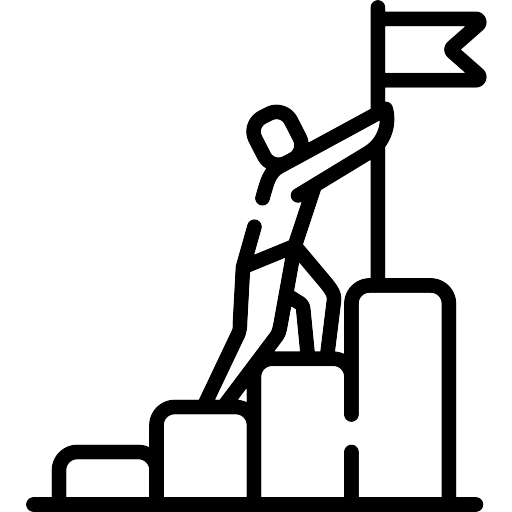
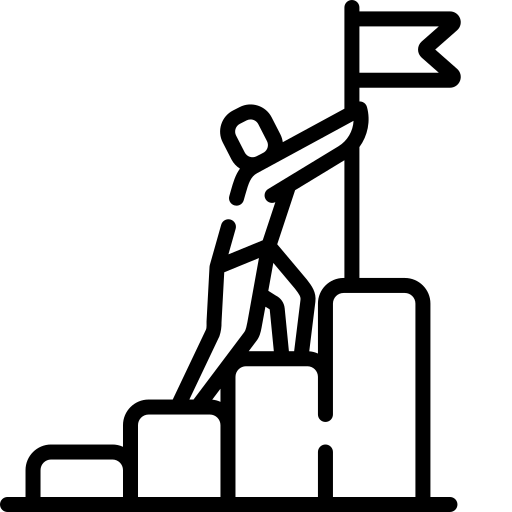
pngs centered

diff --git a/index.html b/index.html
@@ -19,7 +19,7 @@
                     <p>Lorem ipsum dolor sit amet, consectetur adipiscing elit, sed do 
                         eiusmod tempor incididunt ut labore et dolore magna aliqua. 
                     </p>
-                    <a href="https://www.mindler.com/"> Read More </a>
+                    <a href="https://www.mindler.com/"> Learn More </a>
                 </div>
             </div>
         </div>
@@ -36,7 +36,7 @@
                     <p>Lorem ipsum dolor sit amet, consectetur adipiscing elit, sed do 
                         eiusmod tempor incididunt ut labore et dolore magna aliqua. 
                     </p>
-                    <a href="https://www.mindler.com/"> Read More </a>
+                    <a href="https://www.mindler.com/"> Learn More </a>
                 </div>
             </div>
         </div>
@@ -53,7 +53,7 @@
                     <p>Lorem ipsum dolor sit amet, consectetur adipiscing elit, sed do 
                         eiusmod tempor incididunt ut labore et dolore magna aliqua. 
                     </p>
-                    <a href="https://www.mindler.com/"> Read More </a>
+                    <a href="https://www.mindler.com/"> Learn More </a>
                 </div>
             </div>
         </div>

diff --git a/styles.css b/styles.css
@@ -37,6 +37,12 @@ body:before{
     cursor: pointer;
 }
 
+.content img {
+    display: block;
+    margin-left: auto;
+    margin-right: auto;
+}
+
 .container .card .face{
     width: 300px;
     height: 200px;
